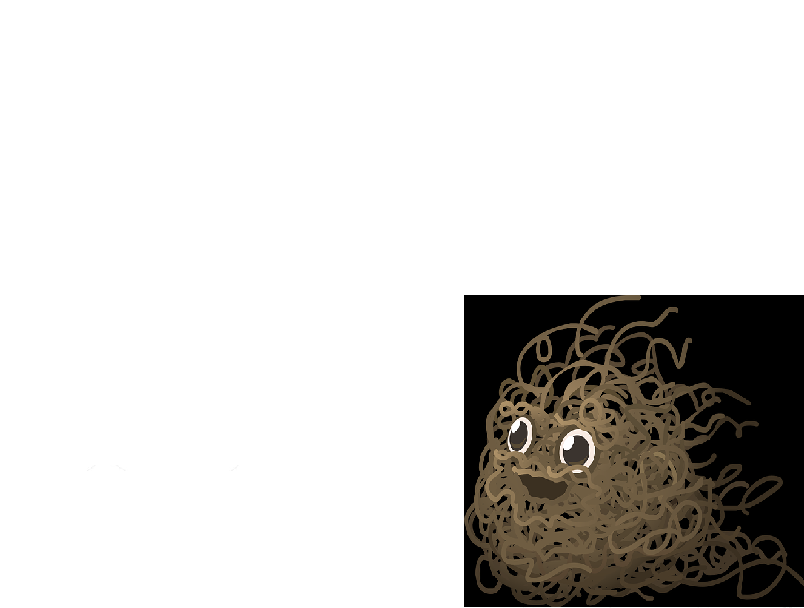
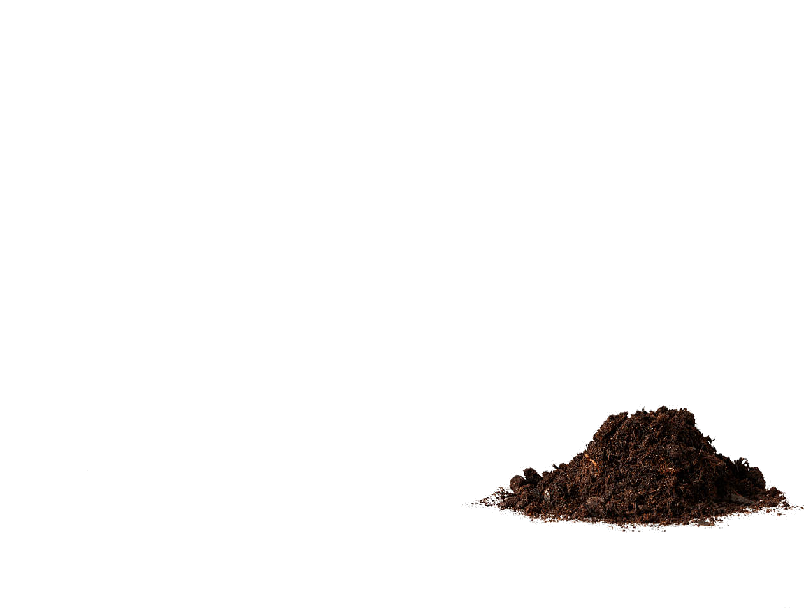
gestion de la transparence des sprites

Changed region(s): [[0.5597, 0.4688, 1.0, 1.0]]

diff --git a/src/ScreenUpdater.java b/src/ScreenUpdater.java
@@ -60,7 +60,6 @@ class MyCanvas extends JComponent{
     private static double imgHeight = 608;
     private static BufferedImage imgDirt = LoadImage("images/dirt.png");
     private static BufferedImage imgJewel = LoadImage("images/jewel.png");
-    private static BufferedImage imgJewelAndDirt = LoadImage("images/jewelAndDirt.png");
     private static BufferedImage imgCleaner = LoadImage("images/cleaner.png");
     private static int offset = 30;
     private float scaleX;
@@ -88,9 +87,8 @@ class MyCanvas extends JComponent{
     public void paint(Graphics g) {
 	Graphics2D g2d = (Graphics2D) g.create();
 	DrawGrid(g2d);
-	DrawImage(g2d, imgCleaner, e.GetCleanerPosition());
 	DrawDirtJewel(g2d);
-	
+	DrawImage(g2d, imgCleaner, e.GetCleanerPosition());
 	repaint(1000);
     }
 
@@ -111,7 +109,7 @@ class MyCanvas extends JComponent{
 			 uiY - offset);					   
 	}
     }
-
+ 
     private void DrawDirtJewel(Graphics2D g2d){
 	House h = e.GetHouse();
 	Boolean dirt;
@@ -120,11 +118,10 @@ class MyCanvas extends JComponent{
 	    for(int j = 0; j < h.GetHeight(); j++){
 		dirt = h.GetRoom(i,j).IsDirt();
 		jewel = h.GetRoom(i,j).IsJewel();
-		if(dirt && jewel){
-		    DrawImage(g2d, imgJewelAndDirt, new Position(i, j));		   
-		} else if(dirt){
+		if(dirt){
 		    DrawImage(g2d, imgDirt, new Position(i, j));
-		} else if(jewel){
+		}
+		if(jewel){
 		    DrawImage(g2d, imgJewel, new Position(i, j));
 		}
 		
